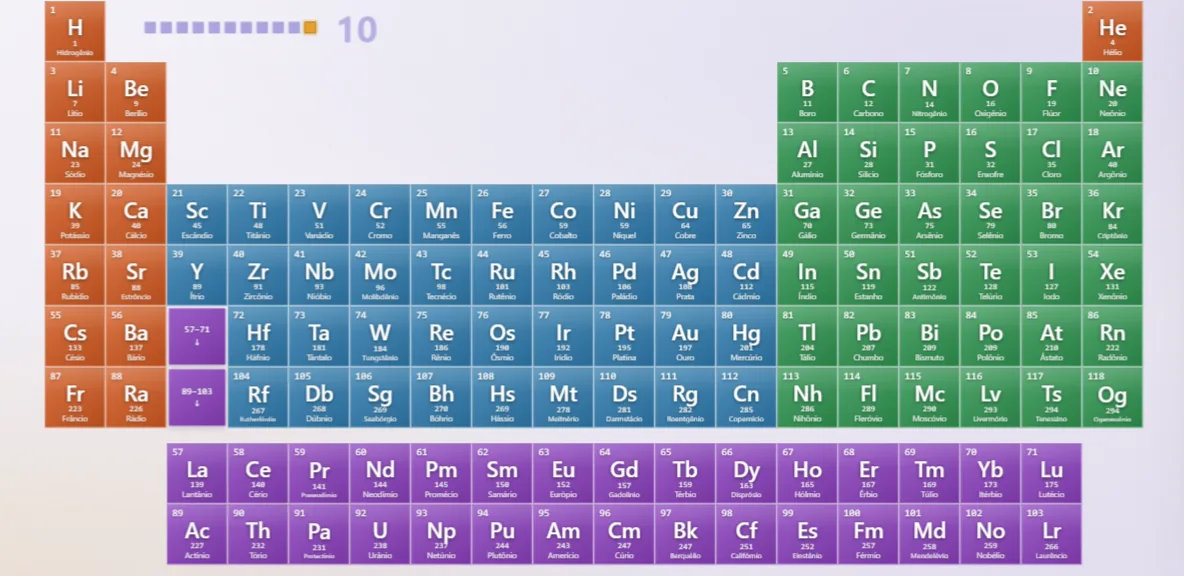
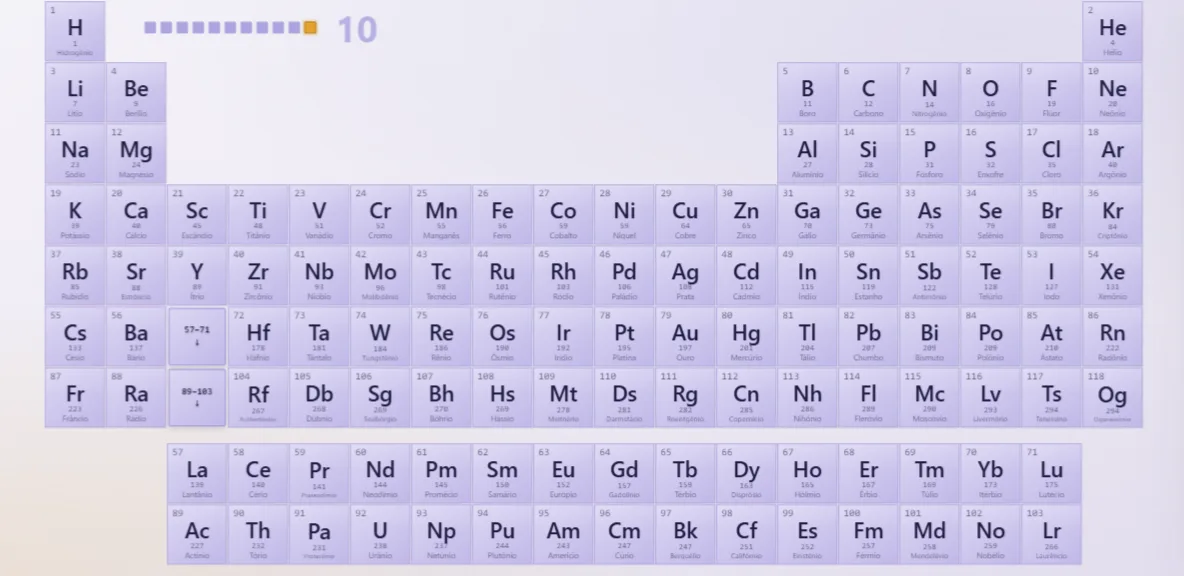
v49.3 · Tópico 10: a tabela sem cor desde o começo do tópico (as cores vêm na 10.1); o lantânio e o actínio na cor do bloco d; o encaixe errado faz a tela tremer em vermelho, o card volta e aparece, em vermelho, "O card se encaixa na mesma cor do bloco"

diff --git a/tabela-periodica.html b/tabela-periodica.html
@@ -2132,6 +2132,8 @@ body.montagem .texto6{opacity:1;pointer-events:auto}
 .mesa.blocos .pc:is([data-col="3"],[data-col="4"],[data-col="5"],[data-col="6"],[data-col="7"],
   [data-col="8"],[data-col="9"],[data-col="10"],[data-col="11"],[data-col="12"]){--cor:var(--cat-transicao)!important}
 .mesa.blocos .pc:is([data-fam="lantanideos"],[data-fam="actinideos"]){--cor:var(--cat-lantanideos)!important}
+/* (o lantânio e o actínio são do bloco d: a cor dos de transição) */
+.mesa.blocos .pc:is([data-z="57"],[data-z="89"]){--cor:var(--cat-transicao)!important}
 .mesa.blocos .casa.serie,.mesa.blocos .casa.serie.act{
   background:linear-gradient(145deg,color-mix(in srgb,var(--cat-lantanideos) 84%,#fff),
                                     color-mix(in srgb,var(--cat-lantanideos) 86%,#000));
@@ -3247,6 +3249,12 @@ body.montagem .veu-mg10 .sub10{opacity:1!important;fill-opacity:1!important;stro
 .card101.pego101{z-index:28;scale:1.12;cursor:grabbing;transition:opacity .3s ease, scale .2s ease, box-shadow .2s ease;
   box-shadow:0 18px 36px rgba(32,28,66,.4)}
 .card101.erro101{animation:erro101 .45s ease}
+.aviso101{position:absolute;z-index:45;transform:translate(-50%,-50%) scale(.85);white-space:nowrap;pointer-events:none;
+  font-family:var(--display);font-weight:700;font-size:34px;color:#E5484D;
+  text-shadow:0 0 2px #fff, 0 0 12px rgba(255,255,255,.9);opacity:0;
+  transition:opacity .3s ease, transform .4s cubic-bezier(.34,1.56,.64,1)}
+.aviso101.on{opacity:1;transform:translate(-50%,-50%) scale(1)}
+.titulo9.texto101.cede101{opacity:0}
 .card101.confirma101{animation:confirma101 .9s ease-out}
 @keyframes confirma101{
   0%{scale:1;filter:brightness(1)}
@@ -5067,7 +5075,7 @@ const SLIDES = [
    worker recebe-a no endereço com que é registado (sw.js?v=…). Mudando
    este texto, muda o endereço, o aparelho instala o serviço novo e o
    cache velho vai-se embora — não há uma segunda versão para esquecer. */
-const VERSAO = 'v49.2';
+const VERSAO = 'v49.3';
 
 /* A CAPA NOVA — a ideia do Claude Design: fundo escuro, o título grande e
    claro à esquerda, a tabelinha apagada ao fundo à direita e o sódio, o
@@ -22089,9 +22097,9 @@ const CARDS101 = {
     this.blocos = { s:[], p:[], d:[], f:[] };
     m.querySelectorAll('.pc').forEach(c => {
       const z = +c.dataset.z, col = +c.dataset.col;
-      const b = ehDaSerie(z) ? 'f' : (col <= 2 || z === 2) ? 's' : col <= 12 ? 'd' : 'p';
+      const b = (z === 57 || z === 89) ? 'd' : ehDaSerie(z) ? 'f' : (col <= 2 || z === 2) ? 's' : col <= 12 ? 'd' : 'p';
       c.dataset.b101 = b;
-      if (z !== 2) this.blocos[b].push({ c, x:parseFloat(c.style.left), y:parseFloat(c.style.top) });
+      if (z !== 2 && z !== 57 && z !== 89) this.blocos[b].push({ c, x:parseFloat(c.style.left), y:parseFloat(c.style.top) });
     });
     m.querySelectorAll('.casa.serie').forEach(c => c.dataset.b101 = 'f');
     Object.values(this.blocos).forEach(B => { B.cx = B.reduce((s, p) => s + p.x, 0) / B.length; B.cy = B.reduce((s, p) => s + p.y, 0) / B.length; });
@@ -22168,8 +22176,10 @@ const CARDS101 = {
         }
         if (p){
           tocaEfeito('error');
+          tremeVermelho();
           c.classList.remove('erro101'); void c.offsetWidth; c.classList.add('erro101');
           setTimeout(() => c.classList.remove('erro101'), 500);
+          this.avisa();
         }
         this.poe(o, ...o.casa);
       };
@@ -22177,6 +22187,23 @@ const CARDS101 = {
       c.addEventListener('pointerup', solta);
       c.addEventListener('pointercancel', solta);
     });
+  },
+  /* o aviso do encaixe errado: no lugar do "São 4 subníveis:", em vermelho;
+     some sozinho, e o texto volta */
+  avisa(){
+    let a = this.aviso;
+    if (!a){
+      a = this.aviso = document.createElement('div');
+      a.className = 'aviso101';
+      a.textContent = 'O card se encaixa na mesma cor do bloco';
+      a.style.left = this.texto.style.left;
+      a.style.top  = this.texto.style.top;
+      this.m.appendChild(a);
+    }
+    a.classList.remove('on'); void a.offsetWidth; a.classList.add('on');
+    this.texto.classList.add('cede101');
+    clearTimeout(this.avisoT);
+    this.avisoT = setTimeout(() => { a.classList.remove('on'); this.texto.classList.remove('cede101'); }, 2600);
   },
   festa(){
     if (!slides[10].querySelector('.confete'))
@@ -22212,7 +22239,8 @@ const CARDS101 = {
     /* (a vez de cada bloco: na cor, um quarto do intervalo para cada um; no
        destaque, idem) */
     const C = T101.cor, D = T101.destaque, qc = (C[1] - C[0]) / 4, qd = (D[1] - D[0]) / 4;
-    const cor = CARDS_101.map((K, k) => !de || monta || T >= C[0] + k * qc);
+    /* (sem cor desde a chegada ao slide: na "10" e até a vez de cada bloco na "10.1") */
+    const cor = CARDS_101.map((K, k) => monta || (de ? T >= C[0] + k * qc : !['10'].includes(trilhaAtual)));
     const vez = CARDS_101.map((K, k) => !monta && dentro([D[0] + k * qd, D[0] + (k + 1) * qd]));
     const aumenta = dentro(T101.aumenta) && !monta;
     const brilha = CARDS_101.map(K => !monta && dentro(K.vez));
@@ -22222,8 +22250,8 @@ const CARDS101 = {
     this.estado = est;
     this.texto.classList.toggle('on', T >= T101.texto[0]);
     this.texto.classList.toggle('digitando9', dentro(T101.texto));
-    /* (a tabela sem cor: só na "10.1", até a vez de cada bloco) */
-    this.m.classList.toggle('sem101', de && !monta);
+    /* (a tabela sem cor: desde a chegada ao slide, até a vez de cada bloco) */
+    this.m.classList.toggle('sem101', !monta);
     CARDS_101.forEach((K, k) => this.m.classList.toggle('c' + K.b + '101', cor[k]));
     const solta = T >= T101.arrasta && !monta;
     this.cards.forEach((o, k) => {
